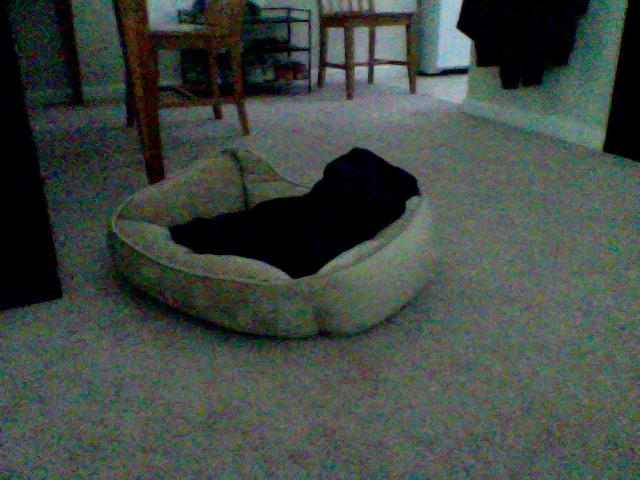
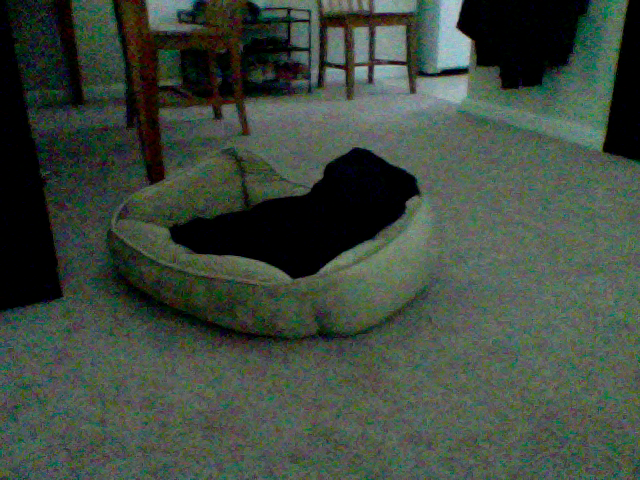
update at Month05Day09Time11:12

diff --git a/index.html b/index.html
@@ -40,7 +40,7 @@
       <div class="row">
         <div class="col-md-4">
 	<p>This picture was updated at Month05Day09Time11:12</p>
-		<img src="9_pic.png" />
+		<img src="8_pic.png" />
         </div>
       </div>
 
